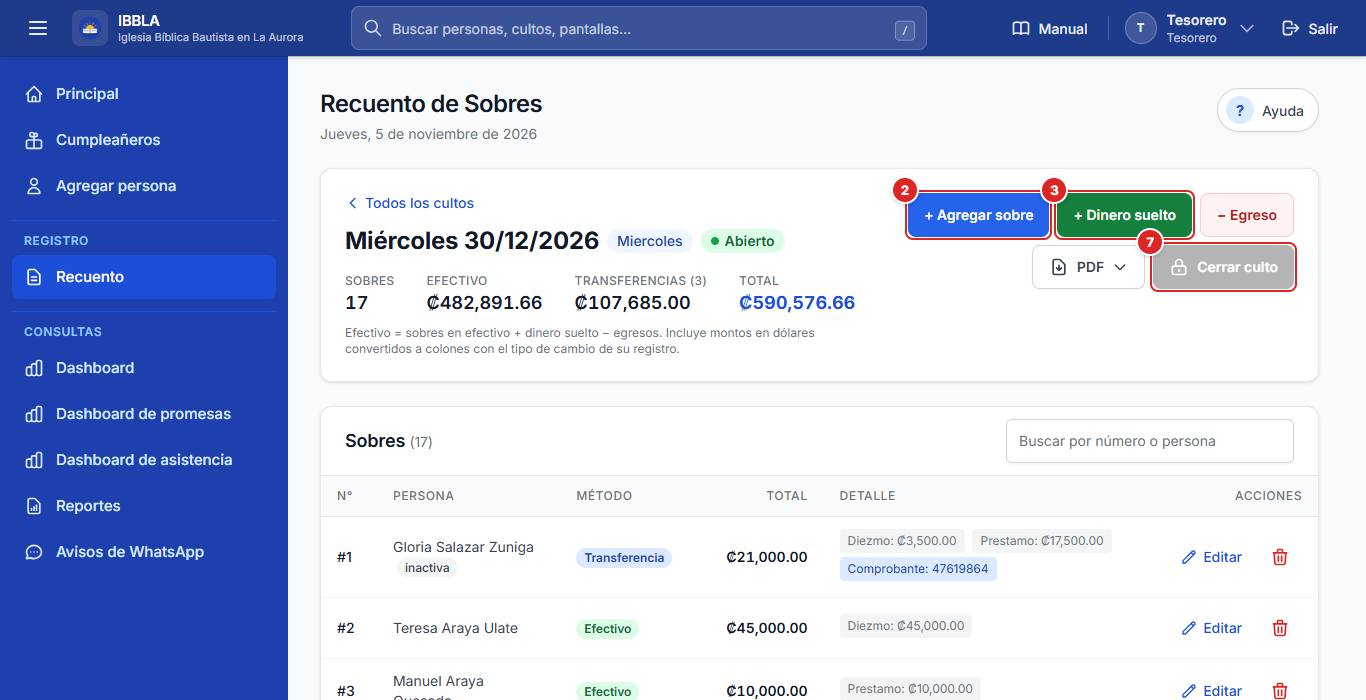
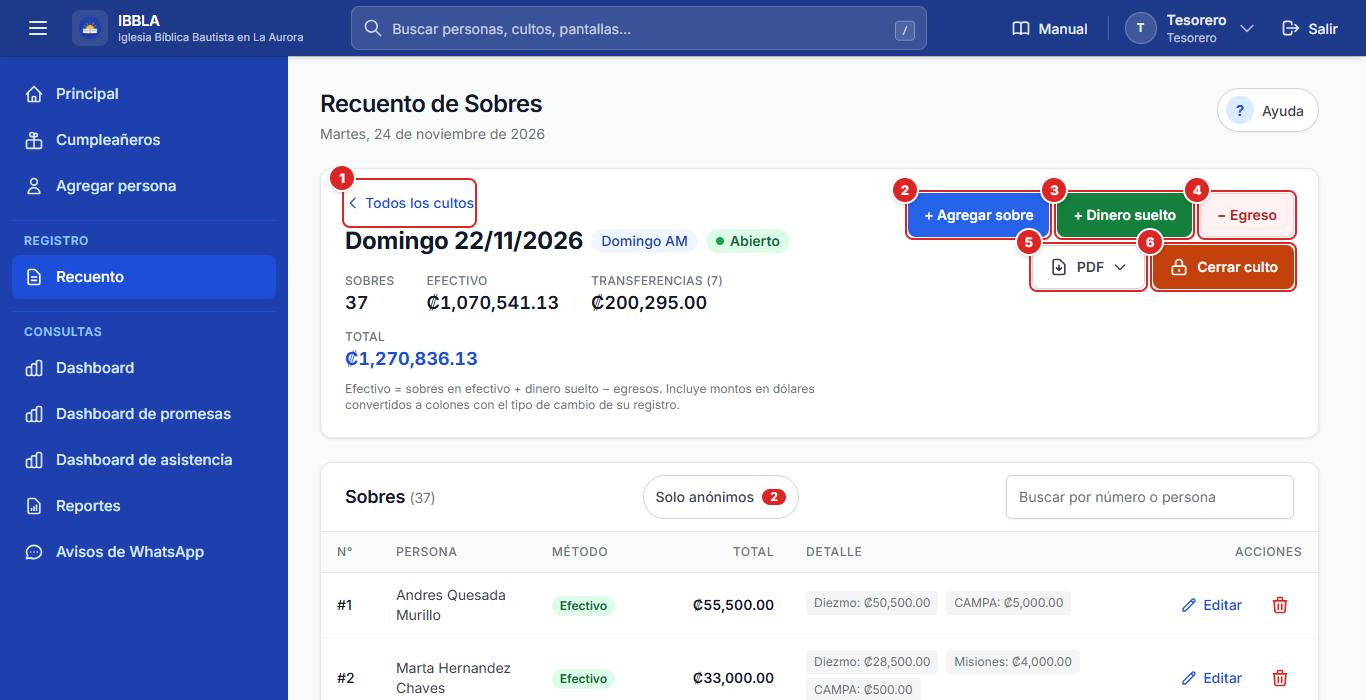
QA-G07: pagina de Recuento del manual reescrita segun la pantalla actual (lista por lineas, Guardar y siguiente, anonimos, firmas), capturas regeneradas y marcador de culto abierto en capturar.mjs

diff --git a/tests/Feature/ManualContenidoTest.php b/tests/Feature/ManualContenidoTest.php
@@ -1,0 +1,96 @@
+<?php
+
+namespace Tests\Feature;
+
+use App\Support\Manual\Manual;
+use Tests\TestCase;
+
+/**
+ * El manual no debe quedarse atras de la app: no explica lo que ya no existe, explica lo que si existe y
+ * los botones que cita llevan el mismo texto que la pantalla. (Sin base de datos.)
+ */
+class ManualContenidoTest extends TestCase
+{
+    protected function setUp(): void
+    {
+        parent::setUp();
+        Manual::olvidar();
+    }
+
+    private function textoDelManual(?string $salvoSlug = null): string
+    {
+        $texto = '';
+        foreach (Manual::paginas() as $pagina) {
+            if ($pagina->slug !== $salvoSlug) {
+                $texto .= "\n".$pagina->cuerpo;
+            }
+        }
+
+        return mb_strtolower($texto);
+    }
+
+    public function test_el_manual_no_explica_funciones_que_ya_no_existen(): void
+    {
+        // La pagina de novedades si puede decir que se quitaron
+        $texto = $this->textoDelManual('novedades-noviembre-2026');
+
+        foreach (['entrar como invitado', 'crear cuenta', 'registrarse', 'regístrate', 'guardar sobre'] as $obsoleto) {
+            $this->assertStringNotContainsString($obsoleto, $texto, "El manual todavia explica «{$obsoleto}», que ya no existe");
+        }
+        $this->assertFalse(file_exists(resource_path('views/auth/register.blade.php')), 'El registro publico se elimino');
+    }
+
+    public function test_el_manual_explica_lo_nuevo_de_la_e1(): void
+    {
+        $texto = $this->textoDelManual();
+
+        foreach ([
+            'centro de reportes', 'cumplimiento de promesas', 'fecha de corte', 'estados de cuenta en lote', 'selector de personas',
+            'accesos de edición', 'alta rápida', 'sobre anónimo', 'solo anónimos', 'asignar persona',
+            'callmebot', 'guardar y siguiente', 'avisos de whatsapp',
+        ] as $tema) {
+            $this->assertStringContainsString($tema, $texto, "Al manual le falta explicar «{$tema}»");
+        }
+    }
+
+    public function test_la_pagina_de_novedades_es_la_primera_del_indice(): void
+    {
+        $paginas = Manual::paginas();
+
+        $this->assertSame('novedades-noviembre-2026', $paginas[0]->slug);
+        $this->assertSame('Novedades de noviembre 2026', $paginas[0]->titulo);
+        $this->assertSame('primeros-pasos', $paginas[1]->slug);
+    }
+
+    public function test_los_botones_que_cita_la_pagina_de_recuento_existen_con_ese_texto_en_las_pantallas(): void
+    {
+        $vistas = '';
+        foreach (glob(resource_path('views/recuento/{,partials/}*.blade.php'), GLOB_BRACE) as $archivo) {
+            $vistas .= file_get_contents($archivo);
+        }
+        $pagina = Manual::pagina('recuento')->cuerpo;
+
+        foreach ([
+            '+ Agregar sobre', '+ Dinero suelto', 'Cerrar culto', 'Guardar y siguiente', 'Guardar y terminar', 'Todos los cultos',
+            'Solo anónimos', 'Asignar persona', 'Solo transferencias', 'Recuento completo', 'Guardar firmas', 'Agregar tesorero',
+            '+ Nueva persona', 'Guardar cambios', 'Sobre anónimo (sin persona)',
+        ] as $boton) {
+            $this->assertStringContainsString($boton, $vistas, "La pantalla ya no dice «{$boton}»");
+            $this->assertStringContainsString($boton, $pagina, "La pagina de Recuento no menciona «{$boton}»");
+        }
+    }
+
+    public function test_cada_pagina_cita_solo_capturas_que_existen_y_cada_captura_numerada_tiene_su_descripcion(): void
+    {
+        $config = json_decode(file_get_contents(base_path('tools/manual/capturas.json')), true);
+        $archivos = array_column($config['capturas'], 'archivo');
+
+        foreach (Manual::paginas() as $pagina) {
+            preg_match_all('/\(img:([^\s)]+\.jpg)/', $pagina->cuerpo, $m);
+            foreach ($m[1] as $imagen) {
+                $this->assertFileExists(Manual::directorioImagenes().'/'.$imagen, "{$pagina->slug}: falta la captura {$imagen}");
+                $this->assertContains($imagen, $archivos, "{$pagina->slug}: {$imagen} no esta en tools/manual/capturas.json (no se puede regenerar)");
+            }
+        }
+    }
+}

diff --git a/resources/views/manual/paginas/02-recuento.md b/resources/views/manual/paginas/02-recuento.md
@@ -16,88 +16,128 @@ palabras: sobres, ofrendas, diezmos, misiones, transferencia, efectivo, dinero s
 
 El **Tesorero** y el **Administrador**. El Asistente y los demás roles no ven esta pantalla.
 
-El Tesorero trabaja aquí sin abrir el módulo *Personas*: si el sobre es de alguien que todavía no está en la lista, lo da de alta en el momento con **+ Agregar Persona Rápida**.
+El Tesorero trabaja aquí sin abrir el módulo *Personas*: si el sobre es de alguien que todavía no está en la lista, lo da de alta en el momento con **+ Nueva persona**.
 
 ## Cómo llegar
 
-Menú lateral → **Registro** → **Recuento**. También desde **Principal** con la tarjeta **Registrar sobres**, o buscando el culto por su fecha en el buscador.
+Menú lateral → **Registro** → **Recuento**. También desde **Principal** con la tarjeta **Registrar sobres**, o escribiendo la fecha del culto en el buscador de la barra superior.
+
+## La lista de cultos
+
+Recuento abre con **una línea por culto**. Toca cualquier línea para entrar a ese culto.
+
+![La lista de cultos de Recuento](img:recuento-lista.jpg "Buscar por fecha, mes o tipo (1), Todos / Abiertos / Cerrados (2) y una línea por culto (3)")
+
+| Botón o control | Qué hace | Quién puede usarlo | Qué pasa después |
+|---|---|---|---|
+| **1. Buscar por fecha, Mes y Tipo de culto** | Filtran la lista. **Buscar** aplica; **Limpiar** quita los filtros. | Administrador, Tesorero | La lista muestra solo los cultos que coinciden. |
+| **2. Todos · Abiertos · Cerrados** | Muestra todos los cultos, solo los que siguen abiertos o solo los ya cerrados, con cuántos hay de cada uno. | Administrador, Tesorero | La lista cambia; los filtros de arriba se conservan. |
+| **3. Una línea por culto** | Fecha (el de hoy dice **Hoy**), día, tipo, cantidad de **Sobres**, **Total** y **Estado** (**Abierto**, o **Cerrado** con la fecha y quién lo cerró). | Administrador, Tesorero | Al tocar la línea se abre la pantalla de ese culto. |
+| **+ Nuevo culto** | Abre el formulario para crear un culto. | Solo el Administrador (al Tesorero le aparece apagado) | Al guardar vuelves a Recuento. Si eres Tesorero y falta el culto, pídeselo al administrador. |
 
 ## La pantalla de un culto
 
-Primero elige el culto en **Seleccionar Culto**: la lista trae los cultos que todavía están abiertos. Al elegirlo aparecen sus botones y, abajo, los sobres ya registrados con sus totales.
+Arriba dice **qué culto es**, si está **Abierto** o **Cerrado**, y un resumen en una línea: cuántos **Sobres**, el **Efectivo**, las **Transferencias** y el **Total**. Los botones de acción están a la derecha (en tablet, debajo del resumen).
 
-![El recuento de un culto abierto](img:recuento-culto.jpg "Elegir el culto (1) y registrar sobres, dinero suelto o egresos (2 a 4); los PDF (5 y 6) y cerrar el culto (7)")
+![El recuento de un culto abierto](img:recuento-culto.jpg "Volver a la lista (1); agregar sobre (2), dinero suelto (3) y egreso (4); PDF (5) y cerrar el culto (6)")
 
 | Botón o control | Qué hace | Quién puede usarlo | Qué pasa después |
 |---|---|---|---|
-| **1. Seleccionar Culto** | Cambia de culto. | Administrador, Tesorero | La pantalla se recarga con los sobres de ese culto. |
-| **2. + Agregar Sobre** | Abre el formulario de un sobre nuevo. | Administrador, Tesorero | Al guardar vuelves a esta pantalla con el culto seleccionado y un mensaje de confirmación. |
-| **3. + Dinero Suelto** | Registra dinero sin sobre (por ejemplo, ofrenda de la bandeja) con su monto y descripción. | Administrador, Tesorero | Aparece en el resumen del culto. |
-| **4. - Egresos** | Registra una salida de dinero del culto (por ejemplo, el pago de un servicio). | Administrador, Tesorero | Se resta en los totales. |
-| **5. Descargar PDF** | Genera el PDF del recuento de este culto. | Administrador, Tesorero | Se abre o se descarga el PDF con todos los sobres y los totales. |
-| **6. PDF Transferencias** | Genera el PDF solo con los sobres pagados por transferencia. | Administrador, Tesorero | Útil para conciliar con el banco. |
-| **7. Cerrar Culto** | Cierra el culto. | Administrador, Tesorero | Pide confirmación. Al cerrar ya no se agregan ni se editan sobres, y queda guardado el tipo de cambio del día. |
+| **1. Todos los cultos** | Vuelve a la lista de cultos. | Administrador, Tesorero | Ves la lista de cultos. |
+| **2. + Agregar sobre** | Abre el formulario de un sobre nuevo en este culto. | Administrador, Tesorero (en un culto cerrado, solo el Administrador o quien tenga un acceso de edición) | Ver *Paso a paso: registrar un sobre*. |
+| **3. + Dinero suelto** | Registra dinero sin sobre (por ejemplo, la ofrenda de la bandeja) con su monto y descripción. | Administrador, Tesorero | Aparece en **Dinero suelto y egresos** y suma al **Efectivo**. |
+| **4. − Egreso** | Registra una salida de dinero del culto (por ejemplo, el pago de un servicio). | Administrador, Tesorero | Aparece en **Dinero suelto y egresos** y se resta del **Efectivo**. |
+| **5. PDF** | Menú con dos opciones: **Recuento completo** (todos los sobres, el resumen por categorías y las firmas) y **Solo transferencias** (para conciliar con el banco). | Administrador, Tesorero | Se abre el PDF en otra pestaña. |
+| **6. Cerrar culto** | Cierra el culto. | Administrador, Tesorero | Pide confirmación (ver *Paso a paso: cerrar un culto*). Solo aparece mientras el culto está abierto. |
 
-Cada sobre de la lista tiene sus propias acciones: **Editar** y **Eliminar** (el icono del basurero). Eliminar siempre pide confirmación.
+Más abajo, en este orden:
+
+- **Sobres:** la lista de sobres del culto, uno por línea, con su número, la persona, el método de pago, el total y el detalle por categoría. Arriba tiene un buscador (**Buscar por número o persona**) y, si hay sobres sin nombre, el filtro **Solo anónimos** con su cantidad. En cada línea: **Editar** y el basurero (**Eliminar**, siempre con confirmación). Los sobres anónimos se ven en rojo y tienen **Asignar persona**.
+- **Dinero suelto y egresos:** cada movimiento con su monto, con **Editar** y **Eliminar**.
+- **Resumen por categorías:** el subtotal de cada categoría y los totales del culto. Los sobres en dólares muestran debajo el monto original.
+- **Firmas del recuento:** el pastor y los tesoreros que firman (ver más abajo).
 
 ## Paso a paso: registrar un sobre
 
-1. Elige el culto en **Seleccionar Culto**.
-2. Toca **+ Agregar Sobre**.
-3. En **Persona**, escribe el nombre o el PIN y elígela de la lista: su nombre aparece **en grande junto al botón Guardar**, para que confirmes que es la persona correcta. Si el sobre no trae nombre, marca la casilla **Sobre anónimo** (o confirma que es anónimo cuando el sistema te lo pregunte): ya **no existe** el truco de dejar el campo vacío. Si escribes un nombre que no existe, el sistema ofrece **crearla** con el alta rápida sin salir de la pantalla.
-4. Elige el **Método de pago**: **Efectivo** o **Transferencia**. Con transferencia aparece el campo **N° Comprobante**.
-5. Si el sobre viene en dólares, cambia la **Moneda** a **$ Dólares**: el sistema usa el tipo de cambio del día.
-6. Escribe el monto de cada categoría (diezmo, misiones, construcción…). Las que no lleven dinero se quedan en cero. El **Total** abajo se va sumando.
-7. Si hace falta, escribe una nota.
-8. Toca **Guardar Sobre**. El botón **Guardar** y el total siempre están a la vista, aunque la pantalla sea larga. Con **Guardar y siguiente** el sobre se guarda y se abre uno nuevo **en el mismo culto**: no hace falta volver a elegirlo.
+1. Abre el culto (toca su línea en la lista) y toca **+ Agregar sobre**.
+2. **1 · Persona:** escribe el nombre o el PIN y elige a la persona de la lista. Su nombre aparece **en grande abajo, junto al botón Guardar**, para que confirmes que es la correcta. Si el sobre no trae nombre, marca **Sobre anónimo (sin persona)**: la barra de abajo dice **ANÓNIMO** en rojo. El sistema nunca guarda un sobre anónimo por descuido: sin persona y sin la casilla marcada no deja guardar.
+3. Si la persona no está en la lista, toca **+ Nueva persona** (o elige **Crear «nombre» como persona nueva** en el buscador): escribe el **Nombre completo**, el **Teléfono** si lo tienes (opcional) y toca **Agregar y elegir**. Queda activa y sin usuario; el administrador completa el resto de sus datos después.
+4. **2 · Montos:** escribe el monto de cada categoría (diezmo, misiones, construcción…). Lo que no traiga el sobre se deja vacío. El **Total** de la barra de abajo se va sumando.
+5. Elige el **Método de pago**: **Efectivo** o **Transferencia** (con transferencia aparece **N° de comprobante**). Si el sobre viene en dólares, cambia la **Moneda** a **$ Dólares**: el sistema usa el tipo de cambio del día. Con **+ Agregar nota** puedes escribir una nota del sobre.
+6. Toca **Guardar y siguiente** (azul): guarda el sobre y abre uno nuevo **en el mismo culto**, listo para el siguiente. Cuando termines, toca **Guardar y terminar**: guarda y vuelve a la pantalla del culto. La barra con el **Total** y los dos botones siempre está a la vista, aunque el formulario sea largo.
 
-![Formulario de un sobre nuevo](img:recuento-nuevo-sobre.jpg "Persona (1), método de pago (2), montos por categoría (3) y la barra con el total y Guardar Sobre (4)")
+Arriba del formulario, **Último guardado** muestra el sobre anterior (número, persona y monto) con **Editar ese sobre**, por si te equivocaste en el que acabas de guardar.
+
+![Formulario de un sobre nuevo](img:recuento-nuevo-sobre.jpg "Persona (1), sobre anónimo (2), montos por categoría (3) y la barra con el total y Guardar y siguiente (4)")
 
 | Botón o control | Qué hace | Quién puede usarlo | Qué pasa después |
 |---|---|---|---|
-| **1. Persona** | Busca por nombre o PIN. Para un sobre sin nombre marca **Sobre anónimo**; si el nombre no existe, ofrece crearla con el alta rápida. | Administrador, Tesorero | El sobre queda ligado a la persona (y cuenta para su estado de cuenta) o queda como anónimo. |
-| **2. Método de pago** | Efectivo o transferencia. | Administrador, Tesorero | Con transferencia puedes anotar el comprobante. |
-| **3. Detalles del sobre** | Un monto por categoría. | Administrador, Tesorero | El total del sobre se calcula solo. |
-| **4. Guardar Sobre** | Guarda el sobre. | Administrador, Tesorero | Vuelves al recuento del culto con el mensaje «Sobre registrado correctamente». |
+| **1. Persona** | Busca por nombre o PIN. **+ Nueva persona** la crea sin salir de la pantalla. | Administrador, Tesorero | El sobre queda ligado a la persona y cuenta para su estado de cuenta. |
+| **2. Sobre anónimo (sin persona)** | Marca que el sobre no trae nombre. | Administrador, Tesorero | El sobre queda como anónimo (rojo); después se le puede asignar persona. |
+| **3. Montos** | Un monto por categoría. | Administrador, Tesorero | El total del sobre se calcula solo. |
+| **4. Guardar y terminar / Guardar y siguiente** | Guarda el sobre. | Administrador, Tesorero | **Terminar** vuelve al culto con el mensaje de confirmación; **siguiente** abre otro formulario en el mismo culto. |
 
 > **Cuidado:** si registras dos sobres de la misma persona en el mismo culto con menos de unos 30 segundos de diferencia, el sistema no guarda el segundo y te avisa: «Ya se registró un sobre para esta persona en este culto hace unos segundos». Revisa que no sea un duplicado; si de verdad son dos sobres, espera unos segundos y vuelve a guardarlo.
 >
 > Los sobres **anónimos** no se rechazan como duplicados: puedes registrar varios seguidos.
 
+## Corregir un sobre
+
+En la línea del sobre toca **Editar**, cambia lo que haga falta y toca **Guardar cambios** (o **Cancelar**). Mientras el culto está abierto lo puede hacer el Tesorero o el Administrador; si el culto ya está cerrado, ver *Un culto cerrado*.
+
 ## Paso a paso: cerrar un culto
 
-1. Revisa los totales y la lista de sobres.
-2. Opcional: llena y guarda las **Firmas de Recuento** (pastor y tesoreros) más abajo en la pantalla, con **Guardar Firmas**. Las firmas **se pueden corregir después de firmadas**: vuelve a abrir el culto, cambia la firma y toca otra vez **Guardar Firmas**.
-3. Toca **Cerrar Culto** y confirma con **Sí, Cerrar**.
+1. Revisa los totales y la lista de sobres. Si quedan sobres **anónimos**, asígnales su persona ahora (ver *Sobres anónimos*).
+2. Opcional: llena y guarda las **Firmas del recuento** (más abajo).
+3. Toca **Cerrar culto**. El mensaje de confirmación te dice cuántos sobres lleva, el total y, si los hay, cuántos están como anónimos. Confirma con **Sí, cerrar**.
+
+El sistema **no deja cerrar un culto futuro ni uno vacío** (sin sobres ni dinero).
 
 Al cerrar:
 
 - **No se puede** agregar sobres, dinero suelto ni egresos, ni editar o eliminar los que ya están. El **Administrador**, o quien tenga un **acceso de edición**, sí puede corregirlo.
 - Se guarda el **tipo de cambio** del día para los sobres en dólares.
 - Las **firmas** siguen pudiéndose corregir.
-- El culto sale de la lista de cultos abiertos y pasa a la **lista por líneas** de cultos. Ábrelo desde ahí: ya no hay una sección «Cultos Cerrados (Archivo)».
+- El culto sigue en la lista de cultos, con el estado **Cerrado** y la fecha y quién lo cerró; ábrelo desde ahí.
 
 > **Cuidado:** eliminar un culto cerrado borra el culto **con todos sus sobres**. Solo el Administrador puede hacerlo, escribiendo un motivo, y queda en la auditoría.
 
 > **Importante:** cerrar es el paso que deja listos los totales para los reportes. Cierra el culto cuando el recuento esté completo y firmado.
 
+## Las firmas del recuento
+
+Al final de la pantalla del culto están las **Firmas del recuento**: el **Pastor** y los **Tesoreros**.
+
+1. Escribe el nombre y toca **Firmar**. Se abre un recuadro: dibuja la firma con el mouse o con el dedo y toca **Guardar firma** (o **Limpiar** para empezar de nuevo).
+2. Para más de un tesorero, toca **Agregar tesorero**; cada uno tiene su nombre y su **Firmar**.
+3. Toca **Guardar firmas**.
+
+Las firmas **se pueden corregir después de firmadas**, aun con el culto cerrado: vuelve a firmar y toca otra vez **Guardar firmas**. Cada cambio queda en la auditoría. Salen en el PDF del recuento.
+
 ## Un culto cerrado
 
-Un culto cerrado se abre desde la **lista por líneas** de cultos. El **Tesorero** lo ve todo en **solo lectura**, con el aviso «Cerrado el dd/mm por X» (fecha y quién lo cerró). El **Administrador**, o quien tenga un **acceso de edición** sobre ese culto (módulo *Accesos*, ver su página), puede **corregir** sobres, dinero suelto y egresos. Las **firmas** se pueden corregir aun después de firmadas y el cambio queda auditado.
+Un culto cerrado muestra un aviso con quién lo cerró y cuándo, y qué puedes hacer:
+
+- **Tesorero:** ve todo en **solo lectura** (y puede descargar el PDF). Si hay que corregir algo, pídele al administrador que lo corrija o que le dé un **acceso de edición**.
+- **Tesorero con acceso de edición** (módulo *Accesos*, ver su página): el aviso dice «tienes acceso de edición» y hasta cuándo; puede corregir sobres, dinero suelto y egresos, y cada cambio recalcula los totales y queda registrado con su nombre.
+- **Administrador:** lo ve «corrigiendo como administrador», con el enlace **Dar acceso a un tesorero para corregirlo**. Cada cambio recalcula los totales con el tipo de cambio congelado al cerrar y queda en la auditoría.
 
 ## Sobres anónimos
 
-En la lista de sobres del culto, el filtro **Solo anónimos** muestra únicamente los sobres sin persona. Cuando después sepas de quién era uno, usa la acción **Asignar persona** en su renglón: el sobre pasa a contar en el estado de cuenta de esa persona.
+Un sobre es **anónimo** solo cuando lo marcas a propósito. En la lista de sobres del culto, el filtro **Solo anónimos** muestra únicamente los sobres sin persona. Cuando después sepas de quién era uno, usa **Asignar persona** en su línea: eliges a la persona y el sobre pasa a contar en su estado de cuenta.
+
 ## Preguntas frecuentes
 
-**Me equivoqué en un sobre.** Toca **Editar** en su renglón, corrige y guarda. Si el culto ya está cerrado, solo el Administrador (o quien tenga un acceso de edición) puede corregirlo.
+**Me equivoqué en un sobre.** Toca **Editar** en su línea, corrige y toca **Guardar cambios**. Si el culto ya está cerrado, solo el Administrador (o quien tenga un acceso de edición) puede corregirlo.
 
-**El culto de hoy no es el primero de la lista.** La lista va de la fecha más lejana a la más antigua, así que el culto de hoy puede quedar más abajo. Escribe su fecha en el buscador de la barra superior para llegar directo.
+**El culto de hoy no es el primero de la lista.** Búscalo por su fecha en **Buscar por fecha**, o con el filtro **Abiertos**; el de hoy trae la etiqueta **Hoy**.
 
-**El culto que busco no está en la lista.** Si ya lo cerraron, ábrelo desde la lista por líneas de cultos. Si todavía no existe, pídele al administrador que lo cree en **Gestionar Cultos**.
+**El culto que busco no está en la lista.** Revisa que no tengas filtros puestos (**Limpiar**). Si todavía no existe, pídele al administrador que lo cree en **Gestionar Cultos**.
 
-**¿Puedo eliminar un sobre?** Sí, mientras el culto esté abierto, con el icono del basurero y confirmando. En un culto cerrado no se puede eliminar.
+**¿Puedo eliminar un sobre?** Sí, mientras el culto esté abierto, con el basurero de su línea y confirmando. En un culto cerrado solo el Administrador, o quien tenga un acceso de edición.
 
 **¿Puedo eliminar un culto ya cerrado?** Solo el **Administrador**, desde la lista de cultos, con **Eliminar culto**. El sistema pide confirmar y escribir un **motivo** (obligatorio), y queda en la auditoría qué culto era, su fecha, su total y cuántos sobres tenía. El Tesorero no ve ese botón.
 
-**El sobre es de una persona que no está en la lista.** Usa **+ Agregar Persona Rápida** en el formulario del sobre para crearla con su nombre; después el administrador puede completar sus datos en **Personas**.
+**El sobre es de una persona que no está en la lista.** Usa **+ Nueva persona** en el formulario del sobre para crearla con su nombre; después el administrador puede completar sus datos en **Personas**.
+
+**No me deja guardar el sobre.** Falta elegir la persona o marcar **Sobre anónimo (sin persona)**.
